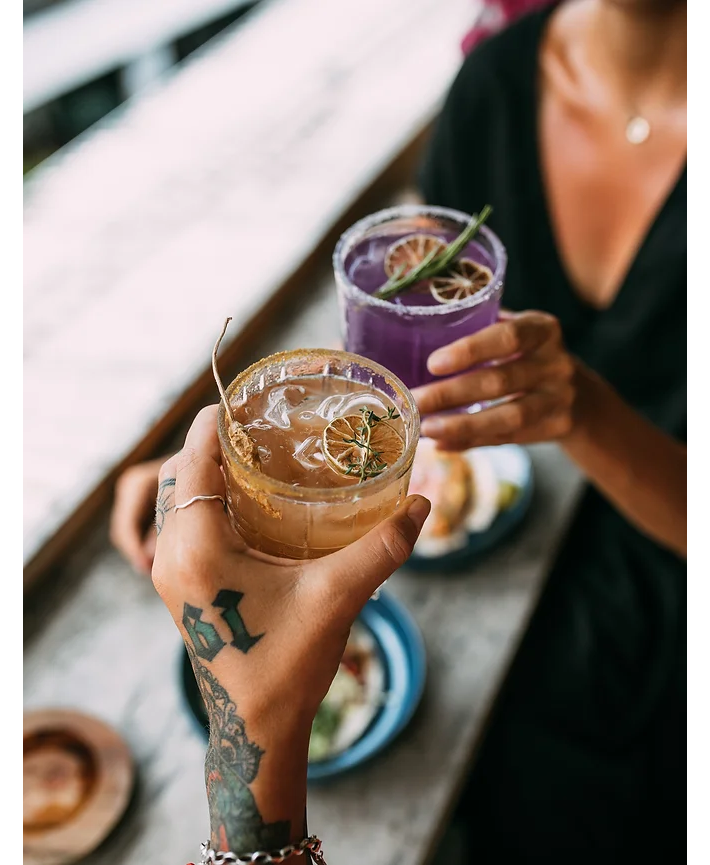
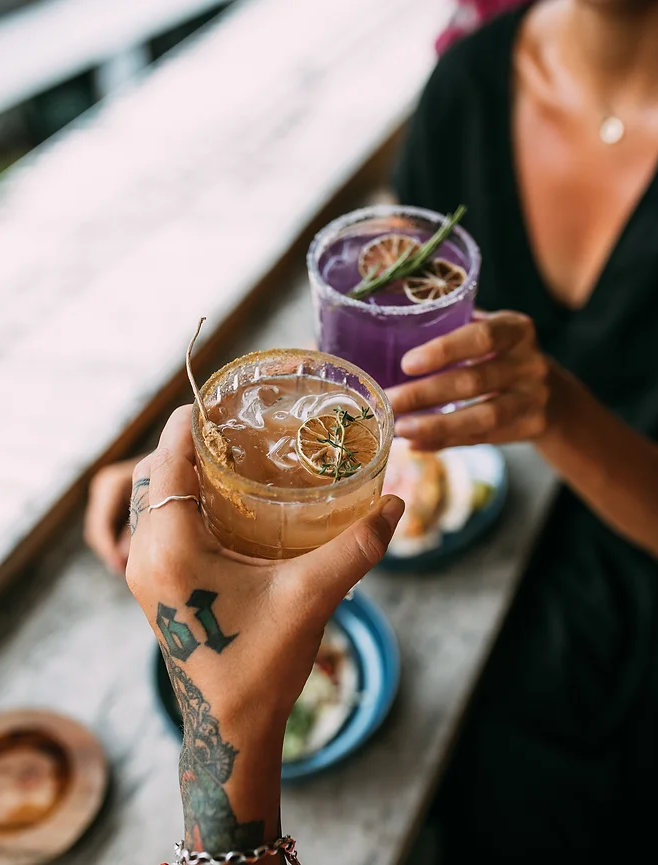
final pag.index

diff --git a/index.html b/index.html
@@ -19,7 +19,7 @@
     <div class="container-fluid">
       <a class="navbar-brand ms-3" href="./index.html"><img src="./assets/logo1.png" alt="mint" width="100" height="100"></a>
       <!-- toggle from 576px -->
-      <button class="navbar-toggler" type="button" data-bs-toggle="collapse" data-bs-target="#navbarNav" aria-controls="navbarNav" aria-expanded="false" aria-label="Toggle navigation">
+      <button class="navbar-toggler me-5" type="button" data-bs-toggle="collapse" data-bs-target="#navbarNav" aria-controls="navbarNav" aria-expanded="false" aria-label="Toggle navigation">
         <span class="navbar-toggler-icon"></span>
       </button>
       <!-- menu-sup -->
@@ -42,11 +42,11 @@
     <div class="container-fluid">
         <div class="row justify-content-center align-items-center mt-2 mb-3">
         <img src="./assets/homefood.png" class="img-fluid"  alt="#">
-    </div>
+    </div> 
     <!-- contenedor 2 -->
     <div class="container-fluid">
         <div class="row justify-content-center align-items-center">
-            <div class="col-9 col-sm-12 col-lg-12"><p class="tittle">Fresh, Healthy, Made With Love</div>
+            <div class="col-9 col-sm-6 col-lg-6"><p class="tittle ms-4">Fresh, Healthy, Made With Love</div>
         </div>  
     </div>
   <!-- contenedor 2 -->
@@ -64,43 +64,39 @@
     <div class="container-fluid text-center">
         <div class="row">
             <div class="col-12 col-sm-6 col-lg-6 d-flex justify-content-center align-items-center">
-                <img src="./assets/coliflor.png" class="picture1" alt="...">
+                <img src="./assets/coliflor.png" class="picture picture1" alt="...">
             </div>
             <div class="col mt-5">
-                <p class="tittle2 d-flex justify-content-center align-items-center mt-5">Farm-to-Table With a Twist</p>
-                <p class="d-flex justify-content-center align-items-center mt-4">I'm a paragraph. Click here to add your own text and edit me. I’m a great place for you to tell a story and let your users know a little more about you.</p>
+                <p class="tittle2 d-flex justify-content-center align-items-center mt-3">Farm-to-Table With a Twist</p>
+                <p class="d-flex justify-content-center align-items-center mt-4 me-5">I'm a paragraph. Click here to add your own text and edit me. I’m a great place for you to tell a story and let your users know a little more about you.</p>
             </div>
-            <!-- <div class="col-12 col-sm-12 col-lg-12 d-flex justify-content-center align-items-center tittle2">
-                <p>Farm-to-Table With a Twist</p>
-                <p>I'm a paragraph. Click here to add your own text and edit me. I’m a great place for you to tell a story and let your users know a little more about you.</p>
-            </div> -->
         </div>
     </div>
-    <!-- <div class="row justify-content-end">
-      <div class="col-12 col-sm-6 col-lg-6 d-flex justify-content-center align-items-center">
-        <img src="./assets/coliflor.png" class="picture1" alt="...">
+  <!-- contenedor 4 retocar el movimiento -->
+    <div class="container-fluid text-center mt-4">
+        <div class="row d-flex">
+            <div class="col-12 col-sm-10 col-lg-10 d-flex box">
+                <div class="col">
+                <img src="./assets/community.png" alt="#">
+                <h5>Community</h5>
+                <p>I'm a paragraph. Click here to add your own text and edit me. It's easy.</p>
+                </div>
+                <div class="col">
+                <img src="./assets/sustainability.png" alt="#">
+                <h5>Sustainability</h5>
+                <p>I'm a paragraph. Click here to add your own text and edit me. It's easy.</p>
+                </div>
+                <div class="col">
+                <img src="./assets/integrity.png" alt="#">
+                <h5>integrity</h5>
+                <p>I'm a paragraph. Click here to add your own text and edit me. It's easy.</p>
+                </div>
+            </div>
+        </div>
     </div>
-  </div> -->
-  <!-- contenedor 4 -->
+
   <!-- <div class="container-fluid text-center">
-    <div class="row justify-content-end">
-      <div class="col-8 col-sm-12 col-lg-12 d-flex justify-content-center align-items-center">Farm-to-Table With a Twist</div> 
-    </div>
-  </div> -->
-
-  <!-- <div class="row justify-content-center align-items-center">
-    <div class="col-8 col-sm-12 col-lg-12 fs-1 d-flex">Farm-to-Table With a Twist</div>
-  </div> -->
-  <!-- <div class="row justify-content-center align-items-center">
-    <p>I'm a paragraph. Click here to add your own text and edit me. I’m a great place for you to tell a story and let your users know a little more about you.</p>
-  </div> -->
-  <!-- <div class="d-flex justify-content-start align-items-center">
-    <button type="button" class="btn btn-outline-dark rounded-pill"><a class="text-dark text-decoration-none" href="./pages/ourstory.html" >Our story</a></button>
-  </div> -->
-
-  <!-- contenedor 4 -->
-  <div class="container-fluid text-center box1">
-    <div class="row">
+    <div class="row box1">
       <div class="col-12 col-sm-4 col-lg-4 d-flex justify-content-center align-items-center">
         <img src="./assets/community.png" alt="#">
         <h5>Community</h5>
@@ -117,44 +113,87 @@
         <p>I'm a paragraph. Click here to add your own text and edit me. It's easy.</p>
       </div>
     </div>
-  </div>
+  </div> -->
 
   <!-- contenedor 5 -->
-  <div class="container-fluid">
-    <div class="row justify-content-center align-items-center">
-      <div><img src="./assets/eggs.png" class="img-fluid"  alt="#"></div>
-      <div class="col-8 col-sm-12 col-lg-12 fs-1 d-flex">Kale Special Menu Is On!</div>
-      <p>I'm a paragraph. Click here to add your own text and edit me. It's easy.</p>
+  <div class="container-fluid text-center">
+    <div class="row">
+        <div class="col mt-5">
+            <p class="tittle2 d-flex justify-content-center align-items-center mt-3">Kale Special Menu Is On!</p>
+            <p class="d-flex justify-content-center align-items-center mt-4 me-5">I'm a paragraph. Click here to add your own text and edit me. I’m a great place for you to tell a story and let your users know a little more about you.</p>
+            <!-- <img src="./assets/persona.png" alt=""> -->
+        </div>
+        <div class="col-12 col-sm-6 col-lg-6 d-flex justify-content-center align-items-center mt-5 box2">
+            <img src="./assets/eggs.png" class="img-fluid"  alt="#">
+        </div>
     </div>
-  </div>
+</div>
+
   <!-- contenedor 6 -->
-
-  <div class="row justify-content-center align-items-center">
-    <img src="./assets/coctels.png" class="rounded-5 rounded-top-0" alt="...">
-    <div class="col-8 col-sm-12 col-lg-12 fs-1 d-flex">A Word From Our Custumers</div>
-
-  <!-- slider -->
-  <div id="carouselExampleSlidesOnly" class="carousel slide" data-bs-ride="carousel">
-    <div class="carousel-inner">
-      <div class="carousel-item active">
-        <div class="carousel-caption d-none d-md-block"></div>
-        <p>"This cozy restaurant has left the best impressions! Hospitable hosts, delicious dishes, beautiful presentation, wide wine list and wonderful dessert. I recommend to everyone! I would like to come back here again and again."</p>
-        <h6 class="bold">Devon Lane</h6>
-      </div>
-      <div class="carousel-item">
-        <div class="carousel-caption d-none d-md-block"></div>
-        <p>"It’s a great experience. The ambiance is very welcoming and charming. Amazing wines, food and service. Staff are extremely knowledgeable and make great recommendations."</p>
-        <h6 class="bold">Eleanor Pena</h6>
-      </div>
-      <div class="carousel-item">
-        <div class="carousel-caption d-none d-md-block"></div>
-        <p>This spot gives extraordinary service and yummy meals. One of my favourite restaurants around town. The meals served rapidly and the rates were reasonable. Highly recommended.</p>
-        <h6 class="bold">Kathryn Murphy</h6>
-      </div>
+  <!-- <div class="container-fluid text-center">
+    <div class="row">
+        <div class="col-12 col-sm-6 col-lg-6 d-flex justify-content-center align-items-center">
+            <img src="./assets/coctels.png" class="picture picture2"  alt="...">
+        </div>
+        <div class="col">
+        <div class="tittle2 d-flex justify-content-center align-items-center mt-3 box box3">Farm-to-Table With a Twist</div>
+            <p class="d-flex justify-content-center align-items-center mt-4 me-5">I'm a paragraph. Click here to add your own text and edit me. I’m a great place for you to tell a story and let your users know a little more about you.</p>
+            <div id="carouselExampleSlidesOnly" class="carousel slide" data-bs-ride="carousel">
+                <div class="carousel-inner">
+                  <div class="carousel-item active">
+                    <div class="carousel-caption d-none d-md-block"></div>
+                    <p>"This cozy restaurant has left the best impressions! Hospitable hosts, delicious dishes, beautiful presentation, wide wine list and wonderful dessert. I recommend to everyone! I would like to come back here again and again."</p>
+                    <h6 class="bold">Devon Lane</h6>
+                  </div>
+                  <div class="carousel-item">
+                    <div class="carousel-caption d-none d-md-block"></div>
+                    <p>"It’s a great experience. The ambiance is very welcoming and charming. Amazing wines, food and service. Staff are extremely knowledgeable and make great recommendations."</p>
+                    <h6 class="bold">Eleanor Pena</h6>
+                  </div>
+                  <div class="carousel-item">
+                    <div class="carousel-caption d-none d-md-block"></div>
+                    <p>This spot gives extraordinary service and yummy meals. One of my favourite restaurants around town. The meals served rapidly and the rates were reasonable. Highly recommended.</p>
+                    <h6 class="bold">Kathryn Murphy</h6>
+                  </div>
+                </div>
+              </div> 
+        </div>
     </div>
+  </div> -->
+  <div class="container-fluid text-center">
+    <div class="row justify-content-center align-items-center">
+        <div class="col-12 col-sm-6 col-lg-6 d-flex justify-content-center align-items-center mt-5 mb-4">
+            <img src="./assets/coctels.png" class="picture picture1" alt="...">
+        </div>
+        <div class="col mt-5 box">
+            <p class="tittle2 d-flex justify-content-center align-items-center">A Word From Our Custumers</p> 
+
+
+            <!-- slider -->
+            <div id="carouselExampleSlidesOnly" class="carousel slide" data-bs-ride="carousel">
+                <div class="carousel-inner">
+                    <div class="carousel-item active">
+                        <div class="carousel-caption d-none d-md-block"></div>
+                        <p>"This cozy restaurant has left the best impressions! Hospitable hosts, delicious dishes, beautiful presentation, wide wine list and wonderful dessert. I recommend to everyone! I would like to come back here again and again."</p>
+                        <h6 class="bold">Devon Lane</h6>
+                    </div>
+                    <div class="carousel-item">
+                        <div class="carousel-caption d-none d-md-block"></div>
+                        <p>"It’s a great experience. The ambiance is very welcoming and charming. Amazing wines, food and service. Staff are extremely knowledgeable and make great recommendations."</p>
+                        <h6 class="bold">Eleanor Pena</h6>
+                    </div>
+                    <div class="carousel-item">
+                        <div class="carousel-caption d-none d-md-block"></div>
+                        <p>This spot gives extraordinary service and yummy meals. One of my favourite restaurants around town. The meals served rapidly and the rates were reasonable. Highly recommended.</p>
+                        <h6 class="bold">Kathryn Murphy</h6>
+                    </div>
+                </div>
+            </div>
+        </div>
+    </div> 
   </div>
   <!-- footer -->
-  <footer class="container-fluid text-center text-white box2">
+  <footer class="container-fluid text-center text-white box4">
     <div class="row">
       <div class="col-12 col-sm-4 col-lg-4 d-flex justify-content-center align-items-center">
         <div>
@@ -184,7 +223,7 @@
         </div>
       </div>
     </div>
-    <!-- Copyright -->
+    <!--Copyright -->
     <div class="text-center p-3" style="background-color: rgba(0, 0, 0, 0.2);">© 2020 Copyright:<a class="text-white" href="https://mdbootstrap.com/">MDBootstrap.com</a></div>
   </footer>
 

diff --git a/css/style.css b/css/style.css
@@ -1,13 +1,13 @@
 body{
     background-color: #FAEAB1;
-    margin: 0;
-    padding: 0;
     font-family: 'Playfair Display', serif;
+    height: 100%;
+    width: 100%;
 }
 .tittle{
     font-size: 2em;
     font-weight: bold;
-}
+} 
 .tittle2{
     font-size: 1.5em;
     font-weight: bold;
@@ -18,20 +18,32 @@ h6{
 .our-menu{
     background-color: #342162;
 }
-
-.picture1{
+.picture{
     border-top-left-radius: 48%;
     border-top-right-radius: 48%;
-    height:100%;
-    width: 60%;
 }
-
-
-
-/* .box1{
-    background-color: rgb(107, 142, 35);
+.picture1{
+    height:100%;
+    width: 80%;
+}
+.picture2{
+    height: fit-content;
+    width: fit-content;
+}
+.box{
+    background-color: rgb(107, 142, 35);   
+}
+.box1{
+    height: 15em;
 }
 .box2{
+    height: min-content;
+}
+.box3{
+    height: 15em;
+    width: 20em;
+}
+.box4{
     background-color: #342162;
 }
 
@@ -39,4 +51,4 @@ input{
     border: none;
     background-color: #342162;
     border-bottom: 5px white;
-} */
+} 
